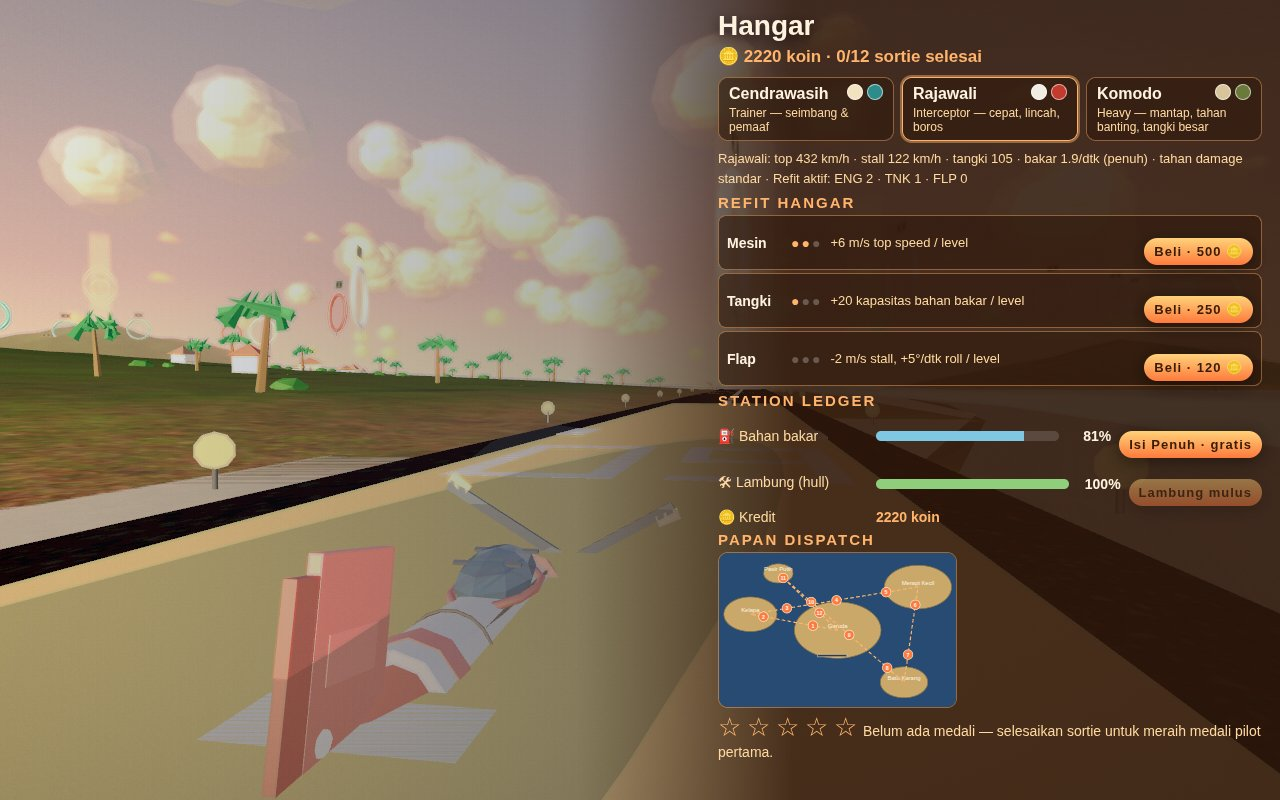
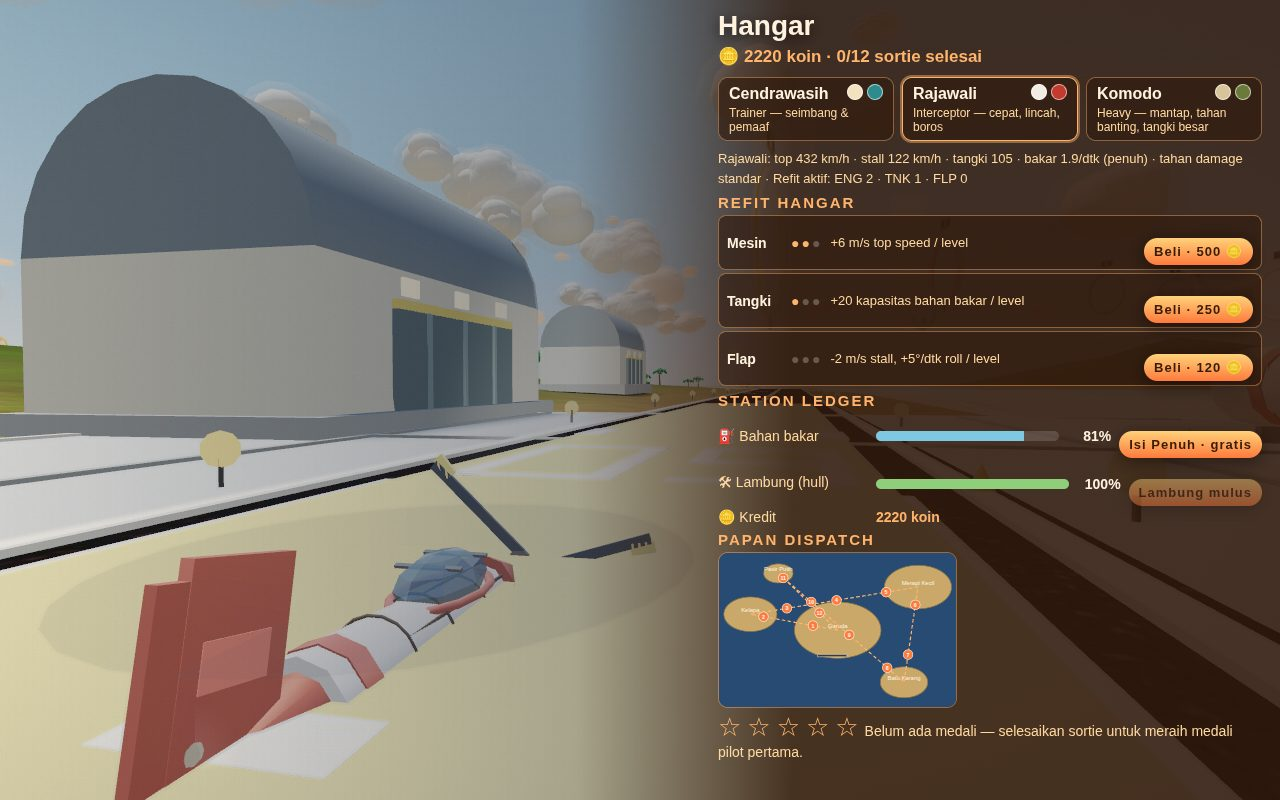
R2-12h: re-shoot 4 dossier shots — face-on hero ring (west approach), noon hangar +30deg orbit, boss 21:00 with darker storm horizon/fog

diff --git a/game/src/main.js b/game/src/main.js
@@ -698,15 +698,21 @@ if (shots.shotName === 'hangar') {
   const hangarScreen = document.getElementById('screen-hangar');
   if (hangarScreen) hangarScreen.style.flexDirection = 'row';
   render.snap();
-  // addLook(dx, dy): lookYaw -= dx * 0.25 deg, so dx -88 orbits the
-  // camera +22 deg around the plane and swings the plane left in
-  // frame, into the open half; dy +30 tips the camera up a touch so
-  // the plane sits higher in the frame. (Try 1 used +35 deg: the
-  // tail filled the frame, the nose slid behind the panel and the
-  // tail fin cropped at the left edge — the parked plane is too long
-  // for the 700 px open half at that angle. +22 deg foreshortens the
-  // fuselage so the whole plane fits.)
-  if (render && typeof render.addLook === 'function') render.addLook(-88, 30);
+  // addLook(dx, dy): lookYaw -= dx * 0.25 deg, so dx -120 orbits the
+  // camera +30 deg around the plane and swings the plane left in
+  // frame, into the open half. (Try 1 used +35 deg: the tail filled
+  // the frame, the nose slid behind the panel and the tail fin cropped
+  // at the left edge — the parked plane is too long for the 700 px
+  // open half at that angle. +22 deg foreshortens the fuselage so
+  // the whole plane fits.) R2-12h try 1: +30 deg — the middle step
+  // between the +22 deg slab (fuselage unreadable, R2-12g) and the
+  // +35 deg crop, so the fuselage + nose read as a plane while the
+  // whole aircraft still fits the open half. R2-12h try 2 (dy -40)
+  // REVERTED: it lifted the plane but the tail fin ballooned to fill
+  // the whole left edge (cropped left + bottom) and hid the fuselage
+  // behind it — worse than try 1. Try 1's dy +30 stands as the best
+  // hangar frame; the remaining yellow is pale noon paint, not olive.
+  if (render && typeof render.addLook === 'function') render.addLook(-120, 30);
   if (hangar && typeof hangar.compactForShot === 'function') hangar.compactForShot();
   const hp = document.querySelector('.hangar-panel');
   if (hp) hp.scrollTop = 0;

diff --git a/game/src/shots.js b/game/src/shots.js
@@ -75,18 +75,22 @@ export function createShots(render, flight, world, missions) {
     const ringZ = WORLD.rings[0].z;
 
     if (name === 'cover') {
-      // H3 — dramatic cover: ~300 m short of ring 2 (620, 80, -120)
-      // over open sea east of Garuda, heading NNW (yaw 26) so the
-      // low WSW sun sits ~75 deg off the nose — out of frame —
-      // instead of dead ahead blowing the plane white. Try 1
-      // (eastbound on the ring line, -230/330) failed: ring 1 sits
-      // over the Garuda island cone, so the frame was land + a wall
-      // of cream cloud, not sea. This pose keeps the old frame's
-      // money (open sea below, sunlit tail, volcano ahead) with the
-      // ring now BIG ahead and Merapi Kecil looming beyond it.
+      // H3 — dramatic cover: ring 2 (620, 80, -120) approached from
+      // the WEST, heading east (yaw -90), 100 m short at y 72 — 8 m
+      // under the ring centre so the big gold torus sits just above
+      // the plane instead of swallowing it. The rings are NOT
+      // north-facing: makeRing rotates each ring by atan2(x, z), so
+      // ring 2's axis is (0.98, -0.19) — it faces east/west. Try 1
+      // (south approach, yaw 0) proved it: the hero ring rendered a
+      // thin white edge-on ellipse, 79 deg off its axis. From the
+      // west the view is 11 deg off the axis — face-on — and the low
+      // WSW sun sits behind the camera, lighting the gold tube's
+      // camera face instead of blowing the plane white. Merapi Kecil
+      // looms ahead right, open sea beyond the ring. Heading stays
+      // 90 (east), which pose() already sets.
       // Throttle 0.7 keeps the afterburner off; shot glare 0.15.
       startForShot(1, 'free');
-      pose(750, 90, 150, 26, 0, 70, 0.7, 0);
+      pose(520, 72, -120, -90, 0, 70, 0.7, 0);
       render.setView('chase');
       if (render && typeof render.setShotGlare === 'function') render.setShotGlare(0.15);
     } else if (name === 'cockpit') {

diff --git a/game/src/render.js b/game/src/render.js
@@ -612,7 +612,20 @@ export function createRenderer(canvas, world) {
       // weights left a pink dusk band under the storm.
       // R2-11g: harder still (0.95/0.95) — the R2-10 frame still
       // read as grey-blue dusk with cream clouds, not a storm.
-      horizon.lerp(new THREE.Color(0x4a5568), storm * 0.95);
+      // R2-12h: darker storm horizon target (0x2e3644, was 0x4a5568
+      // slate) — at 21:00 the sky top already read navy (52,61,73)
+      // but the horizon band stayed pale grey (141,138,137, R2-12g),
+      // because the slate target + the warm haze lift in
+      // paintSkyDome kept it light. The darker target also cuts the
+      // haze (hazeAmt scales with horizon brightness), so the band
+      // darkens twice over. Storm branch only; clear weather untouched.
+      // MEASURED (R2-12h, boss 21:00): sky top 58→50, horizon band
+      // 144→122 — the sky darkened, but the band's remainder is the
+      // pale SEA surface below the horizon line (157,160,157, moves
+      // with neither this grade nor the storm fog), i.e. the world.js
+      // sea shader, out of this session's scope. Do not chase the
+      // last grey from this branch.
+      horizon.lerp(new THREE.Color(0x2e3644), storm * 0.95);
       zenith.lerp(new THREE.Color(0x1a2233), storm * 0.95);
       // R2-11g: the sun dim alone did not darken the scene — the
       // hemisphere + ambient fill kept terrain, clouds and the

diff --git a/game/src/weather.js b/game/src/weather.js
@@ -336,7 +336,17 @@ export function createWeather(scene) {
     },
   };
 
-  const STORM_FOG = new THREE.Color(0x3a4250);
+  // R2-12h: darker storm fog (0x232c38, was 0x3a4250 slate) — the
+  // storm horizon band at 21:00 stayed pale grey (111,114,107) even
+  // after the sky-dome horizon itself darkened, because the band is
+  // fog-faded sea, not sky: the sea fades to this colour at range.
+  // The near field (plane, drone, rings) sits inside fog.near and is
+  // untouched; only the distant sea/horizon darkens.
+  // MEASURED (R2-12h, boss 21:00): band 111→108 — no measurable
+  // move. The band is the sea SHADER's own brightness, not the fog
+  // colour, so this value is kept (harmless, storm-only) but the
+  // residual pale sea is a world.js matter, not a fog matter.
+  const STORM_FOG = new THREE.Color(0x232c38);
 
   // Last known plane position + forward vector (refreshed by
   // update): the strike point is picked ahead of the plane from these.
